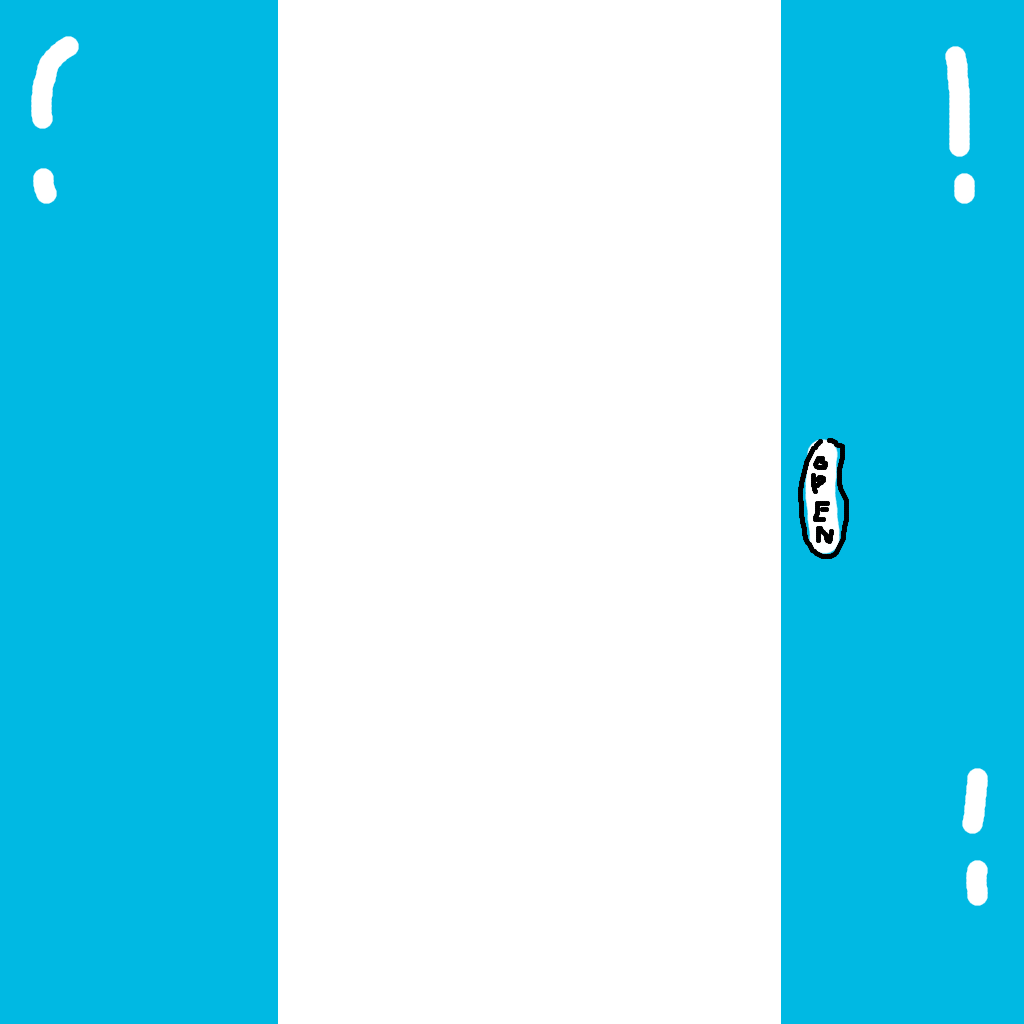
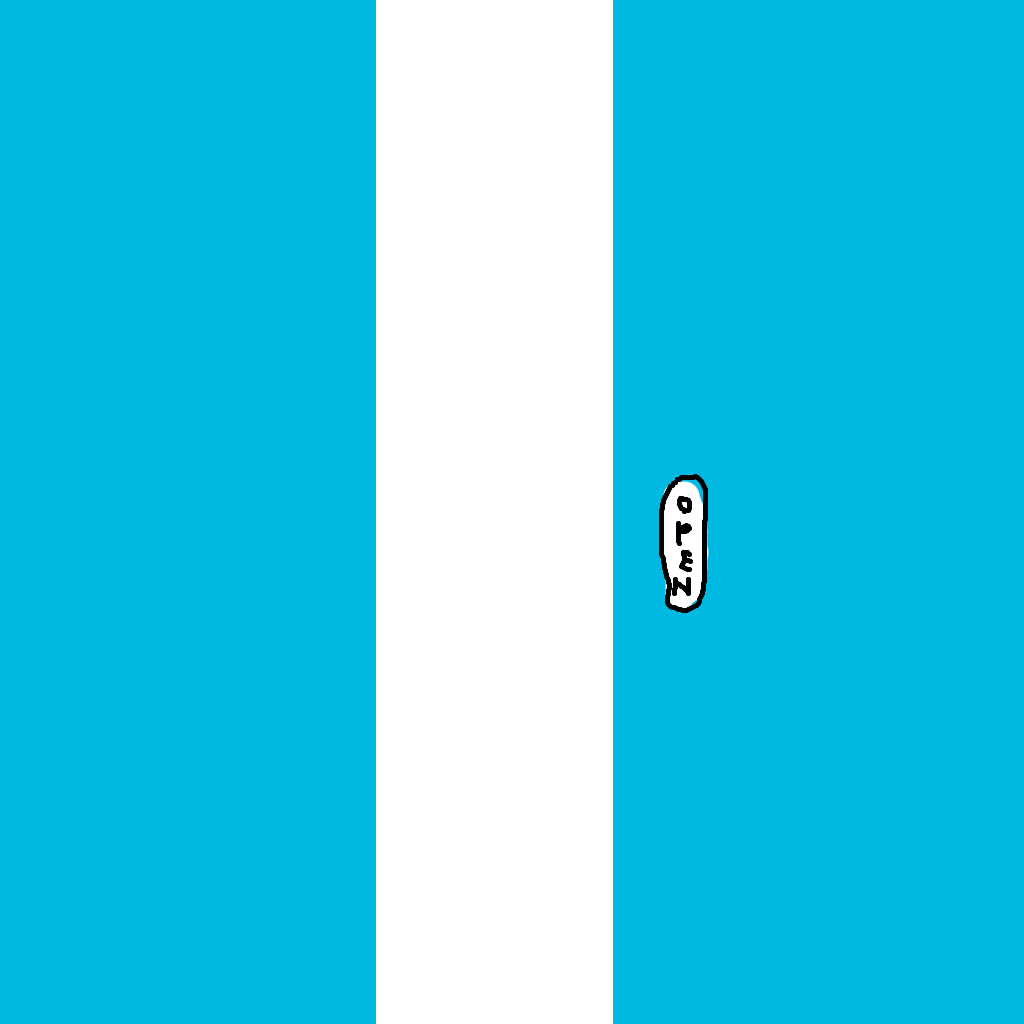
door works well

diff --git a/srcs_bonus/4_render_utils/update_bonus.c b/srcs_bonus/4_render_utils/update_bonus.c
@@ -6,7 +6,7 @@
 /*   By: janhan <janhan@student.42seoul.kr>         +#+  +:+       +#+        */
 /*                                                +#+#+#+#+#+   +#+           */
 /*   Created: 2024/05/13 09:42:08 by janhan            #+#    #+#             */
-/*   Updated: 2024/06/02 19:47:50 by janhan           ###   ########.fr       */
+/*   Updated: 2024/06/04 08:39:14 by sangshin         ###   ########.fr       */
 /*                                                                            */
 /* ************************************************************************** */
 
@@ -44,10 +44,34 @@ static void update_object(t_game *game)
 	i = 0;
 	while (i < game->object_count)
 	{
-		if (game->objects[i]->frame < game->objects[i]->max_frame && game->s_time >= 100)
-			game->objects[i]->frame++;
-		if (game->objects[i]->frame >= game->objects[i]->max_frame)
-			game->objects[i]->frame = 0;
+		if (game->objects[i]->type >=GREEN_LIGHT && game->objects[i]->type <= NOMAL_LIGHT)
+		{
+			if (game->objects[i]->frame < game->objects[i]->max_frame && game->s_time >= 100)
+				game->objects[i]->frame++;
+			if (game->objects[i]->frame >= game->objects[i]->max_frame)
+				game->objects[i]->frame = 0;
+		}
+		else
+		{
+			if (game->objects[i]->state == OPEN && game->objects[i]->frame < game->objects[i]->max_frame)
+				game->objects[i]->frame++;
+			if (game->objects[i]->state == CLOSE && game->objects[i]->frame > 0)
+				game->objects[i]->frame--;
+			if (game->objects[i]->state == OPEN && game->objects[i]->frame == game->objects[i]->max_frame)
+			{
+				if (game->objects[i]->type == HORIZONTAL_DOOR)
+					game->map[(int)(game->objects[i]->object_y - 32) / 64][(int)(game->objects[i]->object_x - 32) / 64] = 'O';
+				else
+					game->map[(int)(game->objects[i]->object_y - 32) / 64][(int)(game->objects[i]->object_x - 32) / 64] = 'P';
+			}
+			else if (game->objects[i]->state == CLOSE && game->objects[i]->frame == 0)
+			{
+				if (game->objects[i]->type == HORIZONTAL_DOOR)
+					game->map[(int)(game->objects[i]->object_y - 32) / 64][(int)(game->objects[i]->object_x - 32) / 64] = 'H';
+				else
+					game->map[(int)(game->objects[i]->object_y - 32) / 64][(int)(game->objects[i]->object_x - 32) / 64] = 'V';
+			}
+		}
 		i++;
 	}
 }

diff --git a/srcs_bonus/2_hook_utils/key_hook_bonus.c b/srcs_bonus/2_hook_utils/key_hook_bonus.c
@@ -6,7 +6,7 @@
 /*   By: janhan <janhan@student.42seoul.kr>         +#+  +:+       +#+        */
 /*                                                +#+#+#+#+#+   +#+           */
 /*   Created: 2024/05/13 12:05:34 by janhan            #+#    #+#             */
-/*   Updated: 2024/05/28 21:35:39 by sangshin         ###   ########.fr       */
+/*   Updated: 2024/06/04 08:41:10 by sangshin         ###   ########.fr       */
 /*                                                                            */
 /* ************************************************************************** */
 
@@ -26,6 +26,31 @@ void	change_mode(t_game *game)
 		mlx_mouse_move(game->mlx_win, WINDOW_W / 2, WINDOW_H / 2);
 		mlx_mouse_hide();
 	}
+}
+
+void	door_open(t_game *game)
+{
+	int	i;
+	t_object *one;
+
+	i = 0;
+	while (i < game->object_count)
+	{
+		one = game->objects[i];
+		if (one->type >= HORIZONTAL_DOOR && one->distance < 100)
+		{
+			if (one->type == HORIZONTAL_DOOR && one->state == CLOSE)
+				one->state = OPEN;
+			else if (one->type == VERTICAL_DOOR && one->state == CLOSE)
+				one->state = OPEN;
+			else if (one->type == HORIZONTAL_DOOR && one->state == OPEN)
+				one->state = CLOSE;
+			else if (one->type == VERTICAL_DOOR && one->state == OPEN)
+				one->state = CLOSE;
+		}
+		i++;
+	}
+
 }
 
 int	key_hook(int keycode, t_game *game)
@@ -49,6 +74,8 @@ int	key_hook(int keycode, t_game *game)
 		else if (game->full_map == TRUE)
 			game->full_map = MAP_SIZE_DOWN;
 	}
+	if (keycode == KEY_E)
+		door_open(game);
 	return (0);
 }
 

diff --git a/srcs_bonus/4_render_utils/player_movement_bonus.c b/srcs_bonus/4_render_utils/player_movement_bonus.c
@@ -6,7 +6,7 @@
 /*   By: janhan <janhan@student.42seoul.kr>         +#+  +:+       +#+        */
 /*                                                +#+#+#+#+#+   +#+           */
 /*   Created: 2024/05/27 17:01:52 by janhan            #+#    #+#             */
-/*   Updated: 2024/05/28 17:24:37 by sangshin         ###   ########.fr       */
+/*   Updated: 2024/06/04 08:16:36 by sangshin         ###   ########.fr       */
 /*                                                                            */
 /* ************************************************************************** */
 
@@ -45,16 +45,16 @@ double	wall_collision(t_game *game, int state)
 	sign = 1 * ((state & 4) == 4) - 1 * ((state & 4) == 0);
 	if (state & 1)
 	{
-		if (game->map[(int)game->player->player_y >> 6]
-			[(int)(game->player->player_x + offset * sign * 10) >> 6] == '1')
+		if (ft_strchr("1HV", game->map[(int)game->player->player_y >> 6]
+			[(int)(game->player->player_x + offset * sign * 10) >> 6]))
 			return (0);
 		else
 			return (offset * sign);
 	}
 	else
 	{
-		if (game->map[(int)(game->player->player_y + offset * sign * 10) >> 6]
-			[(int)game->player->player_x >> 6] == '1')
+		if (ft_strchr("1HV", game->map[(int)game->player->player_y >> 6]
+			[(int)(game->player->player_x + offset * sign * 10) >> 6]))
 			return (0);
 		else
 			return (offset * sign);

diff --git a/srcs_bonus/1_init_utils/init_object_bonus.c b/srcs_bonus/1_init_utils/init_object_bonus.c
@@ -6,7 +6,7 @@
 /*   By: janhan <janhan@student.42seoul.kr>         +#+  +:+       +#+        */
 /*                                                +#+#+#+#+#+   +#+           */
 /*   Created: 2024/05/15 23:53:45 by janhan            #+#    #+#             */
-/*   Updated: 2024/06/03 04:28:24 by sangshin         ###   ########.fr       */
+/*   Updated: 2024/06/04 08:38:54 by sangshin         ###   ########.fr       */
 /*                                                                            */
 /* ************************************************************************** */
 
@@ -22,12 +22,12 @@ static void set_object_position_sub(t_object *object, char **map, int x, int y)
 	if (map[y][x] == 'H')
 	{
 		object->type = HORIZONTAL_DOOR;
-		object->max_frame = 4;
+		object->max_frame = 3;
 	}
 	if (map[y][x] == 'V')
 	{
 		object->type = VERTICAL_DOOR;
-		object->max_frame = 4;
+		object->max_frame = 3;
 	}
 }
 
@@ -47,6 +47,7 @@ static void	set_object_position(t_object *object, char **map, int x, int y)
 		object->max_frame = 4;
 	}
 	set_object_position_sub(object, map, x, y);
+	object->state = CLOSE;
 	object->img_pos_x = 0;
 	object->img_pos_y = 0;
 	object->img_pos_z = 0;

diff --git a/srcs_bonus/4_render_utils/object_render_bonus.c b/srcs_bonus/4_render_utils/object_render_bonus.c
@@ -6,7 +6,7 @@
 /*   By: janhan <janhan@student.42seoul.kr>         +#+  +:+       +#+        */
 /*                                                +#+#+#+#+#+   +#+           */
 /*   Created: 2024/05/15 23:43:33 by janhan            #+#    #+#             */
-/*   Updated: 2024/06/03 14:27:15 by janhan           ###   ########.fr       */
+/*   Updated: 2024/06/04 07:56:30 by sangshin         ###   ########.fr       */
 /*                                                                            */
 /* ************************************************************************** */
 
@@ -374,7 +374,7 @@ void	draw_door(t_object **obj, int cnt, t_player *player, t_game *game)
 						j++;
 					step_y += one_step_y * j;
 					start_y += j;
-					color = color_spoid((int)step_x, (int)step_y, game->object_texture[HORIZONTAL_DOOR][0]);
+					color = color_spoid((int)step_x, (int)step_y, game->object_texture[HORIZONTAL_DOOR][one_door->frame]);
 					if ((color & 0xFF000000) != 0xFF000000)
 						put_pixel_on_img(game->render, render_x, start_y, color);
 					step_y += one_step_y;

diff --git a/includes_bonus/define_bonus.h b/includes_bonus/define_bonus.h
@@ -6,7 +6,7 @@
 /*   By: janhan <janhan@student.42seoul.kr>         +#+  +:+       +#+        */
 /*                                                +#+#+#+#+#+   +#+           */
 /*   Created: 2024/05/11 13:33:01 by janhan            #+#    #+#             */
-/*   Updated: 2024/06/01 11:37:14 by janhan           ###   ########.fr       */
+/*   Updated: 2024/06/04 08:11:52 by sangshin         ###   ########.fr       */
 /*                                                                            */
 /* ************************************************************************** */
 
@@ -102,5 +102,7 @@
 /*========              minimap define               ========*/
 /*************************************************************/
 # define MINI_MAP_RADIUS 5
+# define OPEN 22
+# define CLOSE 32
 
 #endif

diff --git a/srcs_bonus/4_render_utils/render_mini_map_sub_bonus.c b/srcs_bonus/4_render_utils/render_mini_map_sub_bonus.c
@@ -6,7 +6,7 @@
 /*   By: janhan <janhan@student.42seoul.kr>         +#+  +:+       +#+        */
 /*                                                +#+#+#+#+#+   +#+           */
 /*   Created: 2024/05/28 23:54:41 by janhan            #+#    #+#             */
-/*   Updated: 2024/06/03 04:35:06 by sangshin         ###   ########.fr       */
+/*   Updated: 2024/06/04 08:42:42 by sangshin         ###   ########.fr       */
 /*                                                                            */
 /* ************************************************************************** */
 
